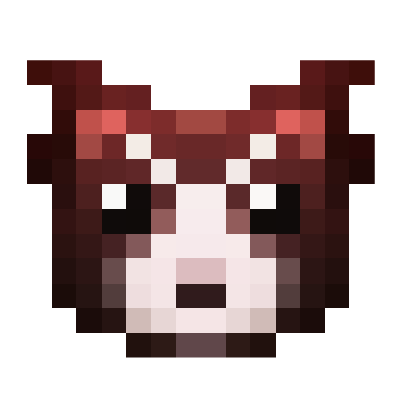
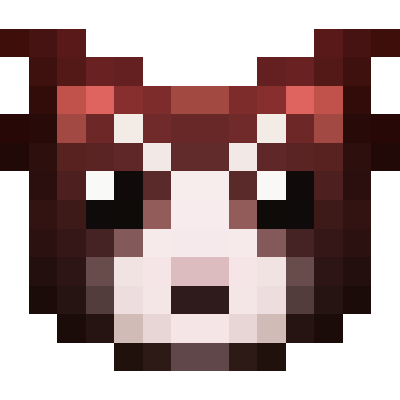
Added status

diff --git a/main.py b/main.py
@@ -141,6 +141,51 @@ async def choose_pet(ctx):
     await ctx.send("Your pet " + pet.name + " says hi!")
     file = discord.File(pet.sprites[pet.type][0])
     await ctx.send(file=file)
+    print(pet.status())
+    
+@bot.command(name='sleep')
+async def sleep(ctx):
+    await ctx.send("Do you want to put your pet to sleep: Y/N")
+    def check(msg):
+        return msg.author == ctx.author and msg.channel == ctx.channel
+    user_choice = await bot.wait_for('message', check=check)
+    user_input = user_choice.content
+    
+    if user_input == 'Y':
+        sleepRet = pet.putToSleep(1);
+        if(sleepRet == -1):
+            file = discord.File(pet.sprites[pet.type][2])
+            await ctx.send(file=file)
+            await ctx.send("Your pet did not want to go to sleep, you dumb idiot")
+            
+@bot.command(name='status')
+async def status(ctx):
+    if(pet.sleeping):
+        file = discord.File(pet.sprites[pet.type][4])
+        await ctx.send(file=file)
+        await ctx.send(pet.name + " is sleeping")
+    else:
+        if pet.status() == 3:
+            file = discord.File(pet.sprites[pet.type][0])
+            await ctx.send(file=file)
+            await ctx.send(pet.name + " is happy!")
+        elif pet.status() == 2:
+            file = discord.File(pet.sprites[pet.type][1])
+            await ctx.send(file=file)
+            await ctx.send(pet.name + " is tired")
+            await ctx.send(pet.name + " needs to take a nap!")
+            
+        elif pet.status() == 1:
+            file = discord.File(pet.sprites[pet.type][2])
+            await ctx.send(file=file)
+            await ctx.send(pet.name + " is hungry!")
+            await ctx.send("You should feed " + pet.name + "!")
+        else:
+            file = discord.File(pet.sprites[pet.type][1])
+            await ctx.send(file=file)
+            await ctx.send(pet.name + " is sad")
+            await ctx.send(pet.name + " wants to play with you!")
+
     
     
 

diff --git a/Pet.py b/Pet.py
@@ -2,9 +2,9 @@ class Pet:
     happy = 50
     energy = 50
     food = 50
-    sleeping = True
+    sleeping = False
     
-    sprites = [["MONTY-HAPPY.png", "MONTY-SAD.png", "MONTY-MAD.png"], ["FRANKIE-HAPPY.png", "FRANKIE-SAD.png", "FRANKIE-MAD.png"]]
+    sprites = [["MONTY-HAPPY.png", "MONTY-SAD.png", "MONTY-MAD.png", "MONTY-EXCITED.png", "MONTY-ASLEEP.png"], ["FRANKIE-HAPPY.png", "FRANKIE-SAD.png", "FRANKIE-MAD.png", "FRANKIE-EXCITED.png", "FRANKIE-ASLEEP.png"]]
     
     def __init__(self):
         self.name = ""
@@ -63,10 +63,17 @@ class Pet:
     def putToSleep(self, sleepVal):
         if self.sleeping:
             print("Your pet is sleeping")
+            return 0
         elif self.energy < 20 & sleepVal == 1:
-            self.sleeping = true;
+            self.sleeping = true
+            energy = 50
+            return 1
         elif sleepVal == 1:
             self.decHappy(5)
+            return -1
+    
+    def wakeUp(self):
+        self.sleeping = False
     
     def play(self, winVal):
         if self.sleeping:
@@ -75,3 +82,15 @@ class Pet:
             self.decHappy(5)
         elif winVal > 0:
             self.incHappy(5)
+            
+    def status(self):
+        if self.happy + self.food + self.energy < 80:
+            min_val = min([self.happy, self.food, self.energy])
+            if min_val == self.happy:
+                return 0
+            elif min_val == self.food:
+                return 1
+            else:
+                return 2
+        else:
+            return 3
